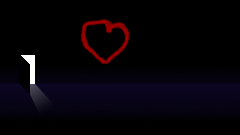
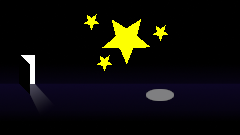
working inventory and thea wanted stars in the background

Changed region(s): [[0.3208, 0.1185, 0.6417, 0.5333], [0.5833, 0.6519, 0.7292, 0.7704], [0.6417, 0.1778, 0.7, 0.2963]]

diff --git a/src/main.ts b/src/main.ts
@@ -8,6 +8,7 @@ import {
   Point,
   FederatedPointerEvent,
   Sprite,
+  insertVersion,
 } from "pixi.js";
 
 import { Actor } from "./actor.ts";
@@ -20,6 +21,7 @@ import { VerbMenu } from "./verbMenu.ts";
 import { GameContext } from "./context.ts";
 import { RoomState } from "./roomState.ts";
 import { ItemState } from "./itemState.ts";
+import { Inventory } from "./inventory.ts";
 
 const VIRTUAL_WIDTH = 240;
 const VIRTUAL_HEIGHT = 135;
@@ -142,6 +144,7 @@ async function main(): Promise<void> {
     },
     onPickUp: () => {
       ctx.dialogManager.addLine(actor, "I will take this.");
+      inventory.pick(cv);
     },
     onUse: () => {
       ctx.dialogManager.addLine(actor, "Am I supposed to eat the CV or what?");
@@ -175,9 +178,14 @@ async function main(): Promise<void> {
       ctx.dialogManager.addLine(actor, "The switch is screwed in place. I can't take it with me.");
     },
     onUse: () => {
-      room.setCurrentState("next_state");
+      if(lightSwitch.getStateId() == "switch_off") {
+        room.setCurrentState("next_state");
+        lightSwitch.setState("switch_on");
+      } else {
+        room.setCurrentState("start_state");
+        lightSwitch.setState("switch_off"); 
+      }
       ctx.dialogManager.addLine(actor, "Click!");
-      lightSwitch.setState("switch_on");
     }
   });
   itemManager.add(lightSwitch.id, lightSwitch);
@@ -229,6 +237,7 @@ async function main(): Promise<void> {
   dialogManager.addLine(actor, "Oh, how did I end up here?");
 
   app.ticker.add(onTick);
+
   const verbMenu = new VerbMenu({
     ctx: ctx,
     eyeTexture: eyeIcon,
@@ -236,6 +245,11 @@ async function main(): Promise<void> {
     hammerTexture: hammerIcon,
   });
   verbMenu.attach(world);
+
+  const inventory = new Inventory({
+    ctx: ctx,
+  });
+  inventory.attach(world);
 }
 
 main();

diff --git a/src/inventory.ts b/src/inventory.ts
@@ -1,3 +1,70 @@
+import { Container, Graphics, FederatedPointerEvent } from "pixi.js";
+import { GameContext } from "./context";
+import { Item } from "./item";
+
 export class Inventory {
-    
+  private readonly ctx: GameContext;
+
+  private readonly container: Container;
+  private readonly bg: Graphics;
+
+  private readonly items: Item[] = [];
+  private readonly iconSpacing = 14;
+
+  public constructor(opts: { ctx: GameContext }) {
+    this.ctx = opts.ctx;
+
+    this.container = new Container();
+    this.container.position.set(40, 0);
+
+    this.bg = new Graphics();
+    this.bg.rect(0, 0, 240, 10);
+    this.bg.fill({ color: 0x222222, alpha: 0.8 });
+    this.container.addChild(this.bg);
+  }
+
+  public attach(world: Container): void {
+    world.addChild(this.container);
+  }
+
+  public pick(item: Item): void {
+    if (this.items.some((i) => i.id === item.id)) return;
+
+    this.items.push(item);
+
+    item.stageView.eventMode = "none";
+    item.stageView.renderable = false;
+    item.stageView.visible = false;
+    item.stageView.parent?.removeChild(item.stageView);
+
+    const icon = item.inventarView;
+    icon.parent?.removeChild(icon);
+
+    icon.anchor.set(0, 0);
+    icon.eventMode = "static";
+    icon.cursor = "pointer";
+
+    icon.position.set(4 + (this.items.length - 1) * this.iconSpacing, 2);
+    icon.scale.set(0.5);
+
+    (icon as any).__id = item.id;
+
+    icon.on("pointerdown", (e: FederatedPointerEvent) => {
+      switch (this.ctx.verb) {
+        case "look":
+          item.onLook?.();
+          break;
+        case "use":
+          item.onUse?.();
+          break;
+        case "pickup":
+          item.onPickUp?.();
+          break;
+      }
+      
+      e.stopPropagation();
+    });
+
+    this.container.addChild(icon);
+  }
 }

diff --git a/src/verbMenu.ts b/src/verbMenu.ts
@@ -62,4 +62,6 @@ export class VerbMenu {
   public attach(world: Container): void {
     world.addChild(this.container);
   }
+
+
 }
